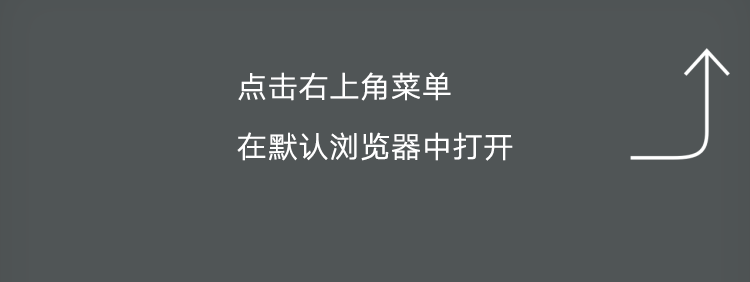
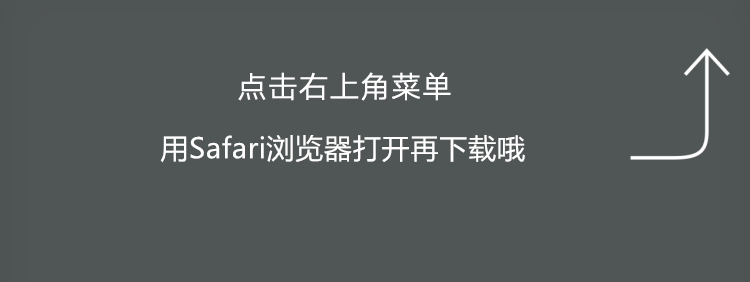
分享页面图片修改为用safari浏览器打开

Changed region(s): [[0.2147, 0.4539, 0.7053, 0.5957]]

diff --git a/Application/Home/View/default/Mobile/share.html b/Application/Home/View/default/Mobile/share.html
@@ -31,7 +31,8 @@
 	    	$("#tips").show();
 	    }else{
 	    	if(bIsAndroid){
-	    			window.location.href = ""; //安卓下载
+	    			//window.location.href = ""; //安卓下载
+	    			alert("比拍安卓版还在开发中，我们会尽快完善，非常感谢您的关注");
 	  		}else{
 	  			window.location.href = "https://itunes.apple.com/cn/app/bi-pai-ren-xiao-gui-da-yi/id1119521508?mt=8"; //苹果下载地址
 	  		}
